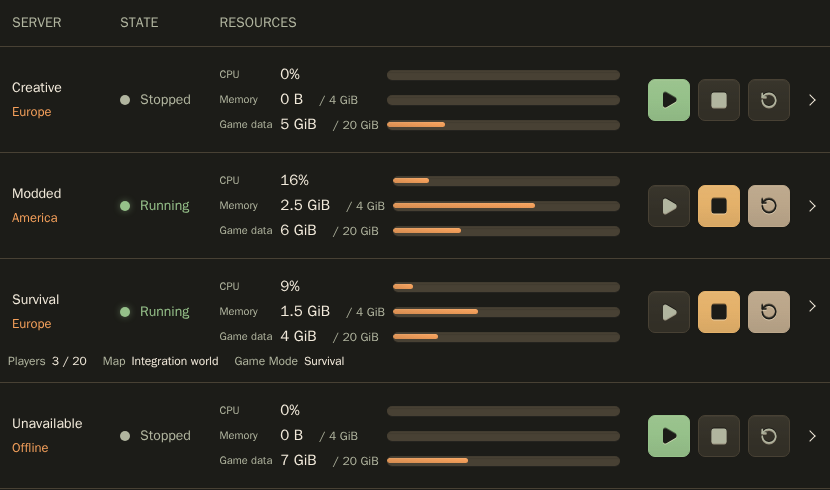
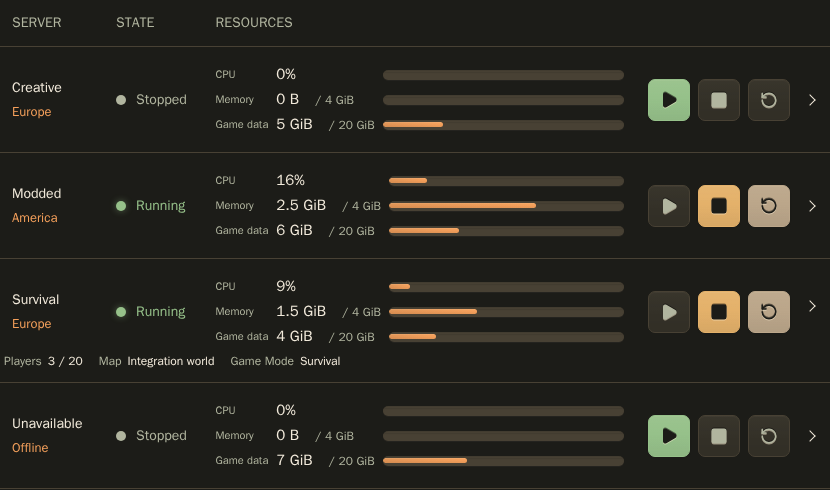
fix: keep table action buttons on one line

diff --git a/web/src/components/table/table.css b/web/src/components/table/table.css
@@ -98,7 +98,7 @@
   }
 }
 
-.table-actions .action-group {
+.data-table .table-actions .action-group {
   justify-content: flex-end;
   flex-wrap: nowrap;
   width: max-content;
@@ -175,6 +175,17 @@
 
   .data-table .table-actions {
     padding-inline-start: 8px;
+  }
+}
+
+@container (48rem < width <= 54rem) {
+  .data-table thead th,
+  .data-table tbody td {
+    padding-inline: 4px;
+  }
+
+  .data-table .table-actions {
+    padding-inline-start: 4px;
   }
 }
 
@@ -281,7 +292,7 @@
     align-self: start;
     display: flex;
     width: auto;
-    flex-wrap: wrap;
+    flex-wrap: nowrap;
     align-items: center;
     justify-content: flex-end;
     gap: 8px;
@@ -291,12 +302,6 @@
   .table-cards tbody .table-fit {
     width: auto;
     white-space: normal;
-  }
-
-  .table-cards .table-actions .action-group {
-    flex-wrap: wrap;
-    width: auto;
-    max-width: 100%;
   }
 
   .table-cards tbody .table-actions:empty {

diff --git a/web/src/pages/servers.css b/web/src/pages/servers.css
@@ -10,8 +10,8 @@
 }
 
 @container (48rem < width <= 54rem) {
-  .servers-table .table-actions .action-group {
-    display: grid;
-    grid-template-columns: repeat(2, var(--control-height));
+  .servers-table .resource-readings-compact .resource-allocation {
+    display: block;
+    margin-inline-start: 0;
   }
 }
